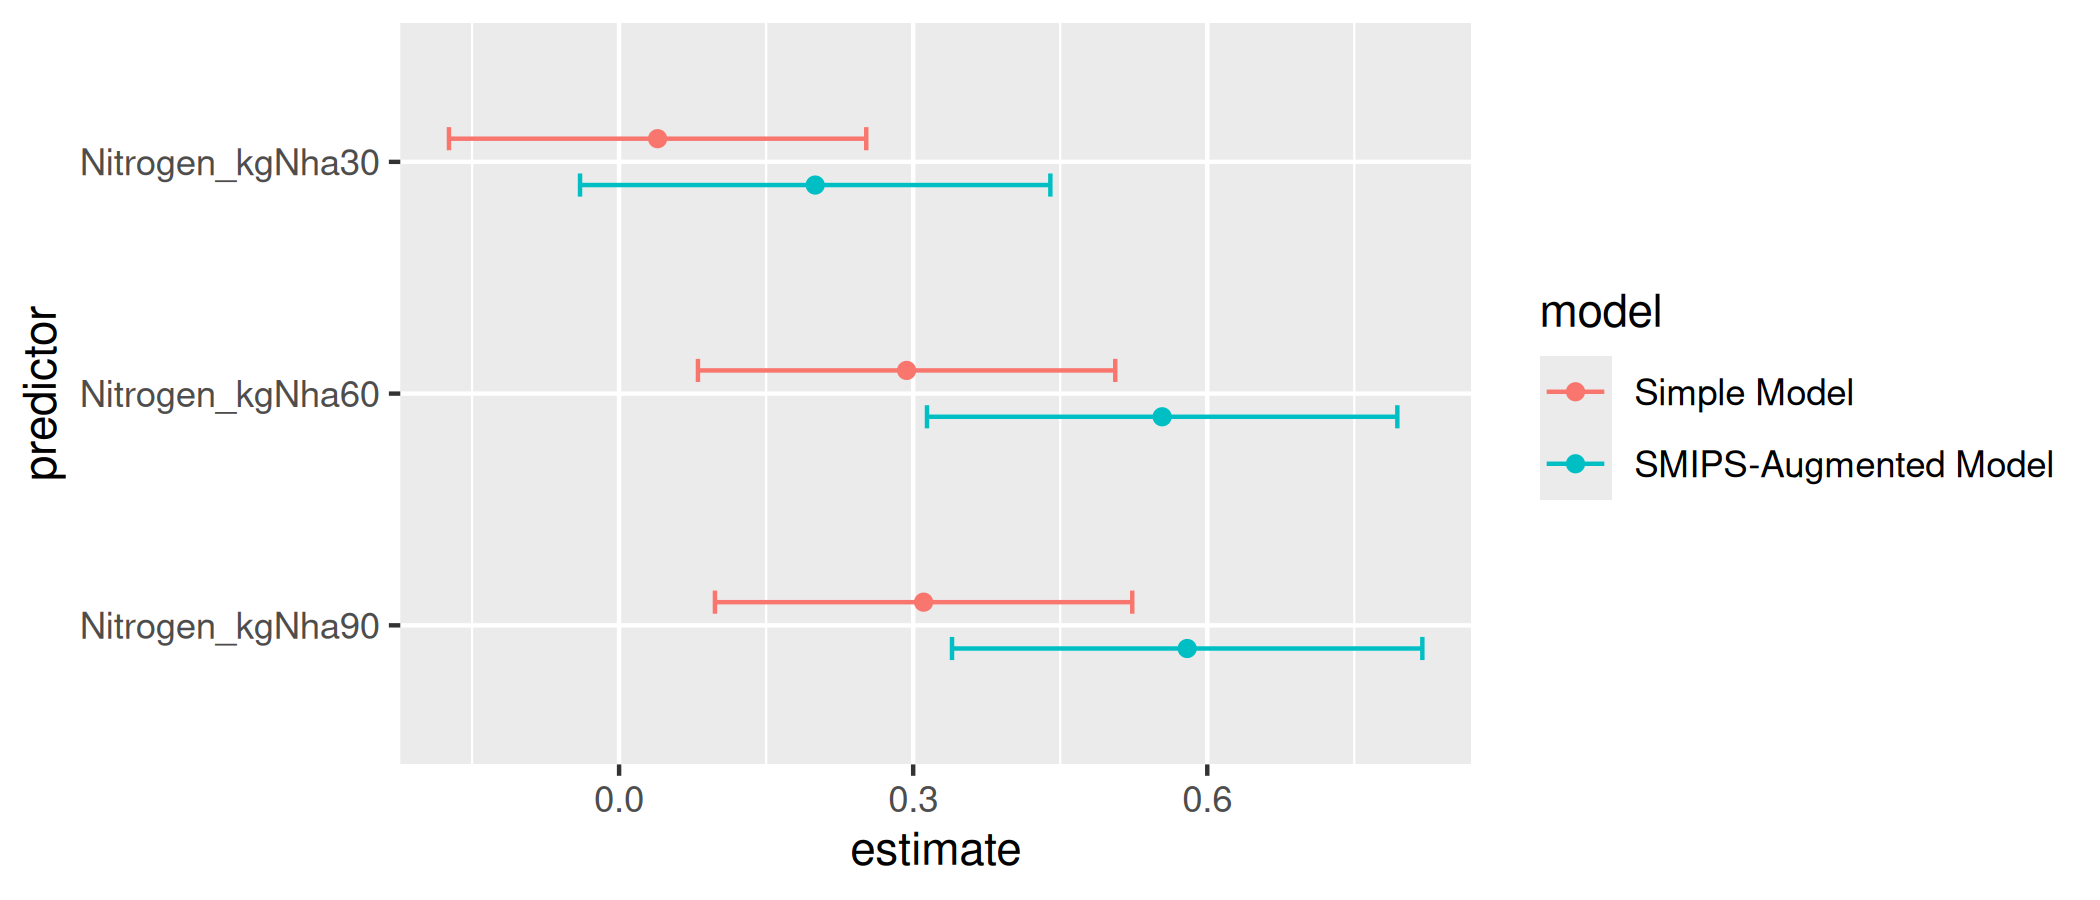
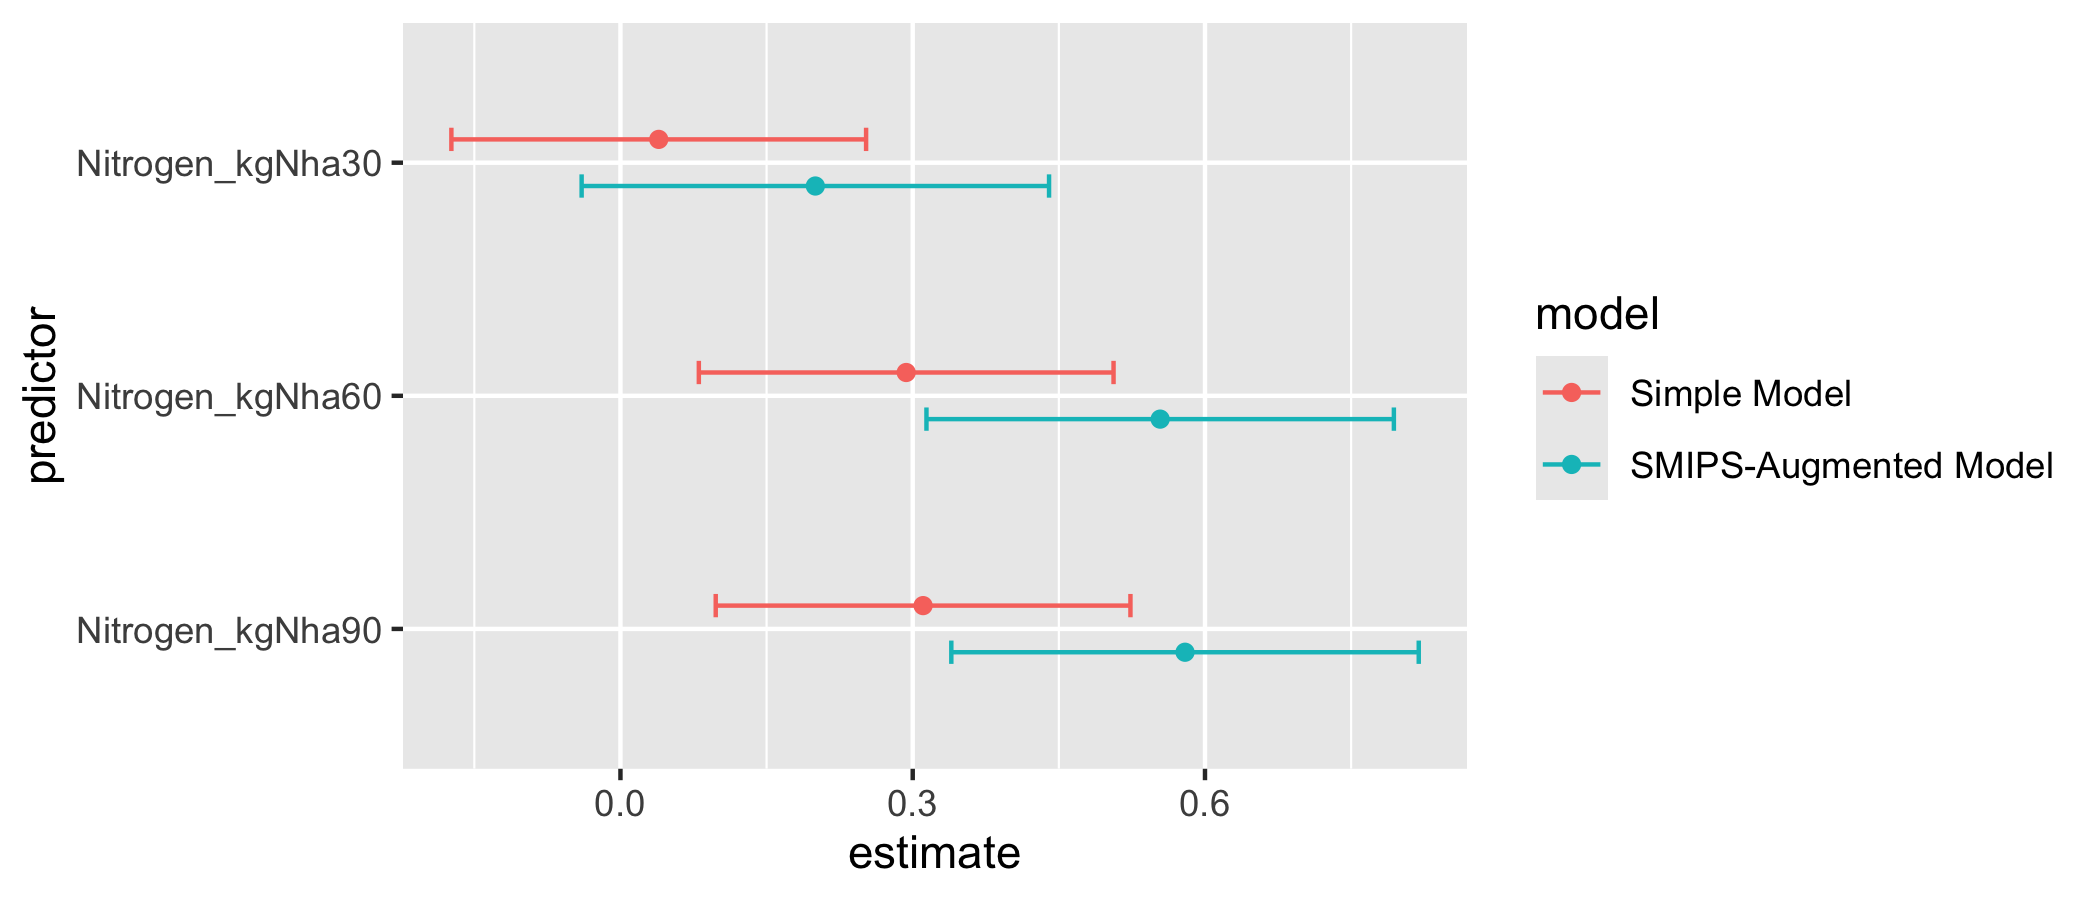
Deploying to gh-pages from @ AAGI-AUS/nert@b3cf6e22d429739bed930babb5f7afe0a2f99315 🚀

diff --git a/articles/nert.html b/articles/nert.html
@@ -240,7 +240,7 @@ of visulalising the TERN data.</p>
 <code class="sourceCode R"><span><span class="fu"><a href="https://ggplot2.tidyverse.org/reference/autoplot.html" class="external-link">autoplot</a></span><span class="op">(</span><span class="va">r</span><span class="op">)</span></span>
 <span><span class="co">#&gt; &lt;SpatRaster&gt; resampled to 501270 cells.</span></span></code></pre></div>
 <div class="figure" style="text-align: center">
-<img src="articles/test-plot-1.png" alt="A plot of SMIPS data for all of Australia on 2024-01-01."><p class="caption">
+<img src="test-plot-1.png" alt="A plot of SMIPS data for all of Australia on 2024-01-01."><p class="caption">
 A plot of SMIPS data for all of Australia on 2024-01-01.
 </p>
 </div>
@@ -263,7 +263,7 @@ arguments for <code><a href="../reference/read_asc.html">read_asc()</a></code>.<
 <span><span class="fu"><a href="https://ggplot2.tidyverse.org/reference/autoplot.html" class="external-link">autoplot</a></span><span class="op">(</span><span class="va">asc</span><span class="op">)</span></span>
 <span><span class="co">#&gt; &lt;SpatRaster&gt; resampled to 500388 cells.</span></span></code></pre></div>
 <div class="figure" style="text-align: center">
-<img src="articles/asc-1.png" alt="plot of chunk asc"><p class="caption">
+<img src="asc-1.png" alt="plot of chunk asc"><p class="caption">
 plot of chunk asc
 </p>
 </div>
@@ -277,7 +277,7 @@ high confusion and 0 is low confusion, you can specify the
 <span><span class="fu"><a href="https://ggplot2.tidyverse.org/reference/autoplot.html" class="external-link">autoplot</a></span><span class="op">(</span><span class="va">asc</span><span class="op">)</span></span>
 <span><span class="co">#&gt; &lt;SpatRaster&gt; resampled to 500388 cells.</span></span></code></pre></div>
 <div class="figure" style="text-align: center">
-<img src="articles/asc_ci-1.png" alt="plot of chunk asc_ci"><p class="caption">
+<img src="asc_ci-1.png" alt="plot of chunk asc_ci"><p class="caption">
 plot of chunk asc_ci
 </p>
 </div>

diff --git a/articles/nert_for_agricultural_analytics.html b/articles/nert_for_agricultural_analytics.html
@@ -96,8 +96,8 @@ package and this dataset with:</p>
 <span><span class="co">#&gt;  $ Site             : Factor w/ 10 levels "Adelaide","Barossa Valley",..: 1 1 1 1 1 1 1 1 1 1 ...</span></span>
 <span><span class="co">#&gt;  $ Latitude         : num  -34.9 -34.9 -34.9 -34.9 -34.9 ...</span></span>
 <span><span class="co">#&gt;  $ Longitude        : num  139 139 139 139 139 ...</span></span>
-<span><span class="co">#&gt;  $ SowDate          : Date, format: "2022-05-20" "2022-05-20" "2022-05-20" ...</span></span>
-<span><span class="co">#&gt;  $ NitrogenDate     : Date, format: "2022-06-04" "2022-06-04" "2022-06-04" ...</span></span>
+<span><span class="co">#&gt;  $ SowDate          : Date, format: "2022-05-20" "2022-05-20" ...</span></span>
+<span><span class="co">#&gt;  $ NitrogenDate     : Date, format: "2022-06-04" "2022-06-04" ...</span></span>
 <span><span class="co">#&gt;  $ Rep              : Factor w/ 3 levels "1","2","3": 1 1 1 1 1 1 1 1 1 1 ...</span></span>
 <span><span class="co">#&gt;  $ Variety          : Factor w/ 8 levels "Variety_A","Variety_B",..: 1 1 1 1 1 1 1 1 1 1 ...</span></span>
 <span><span class="co">#&gt;  $ Nitrogen_kgNha   : Factor w/ 4 levels "0","30","60",..: 1 1 1 2 2 2 3 3 3 4 ...</span></span>
